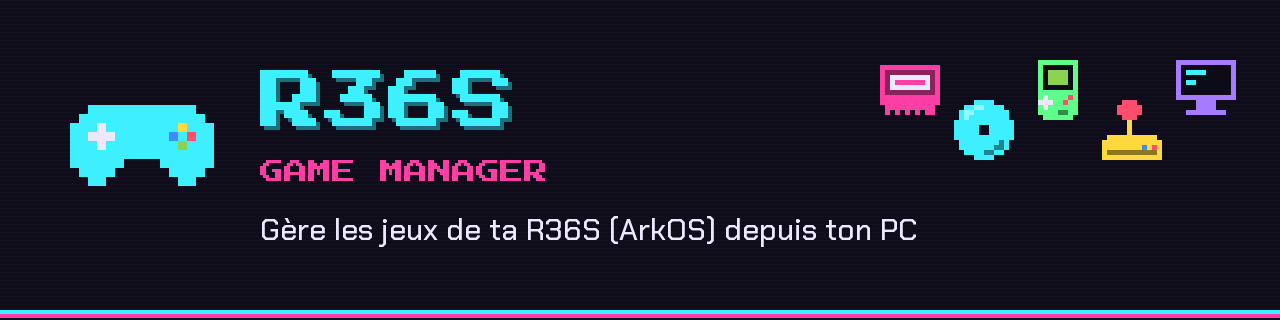
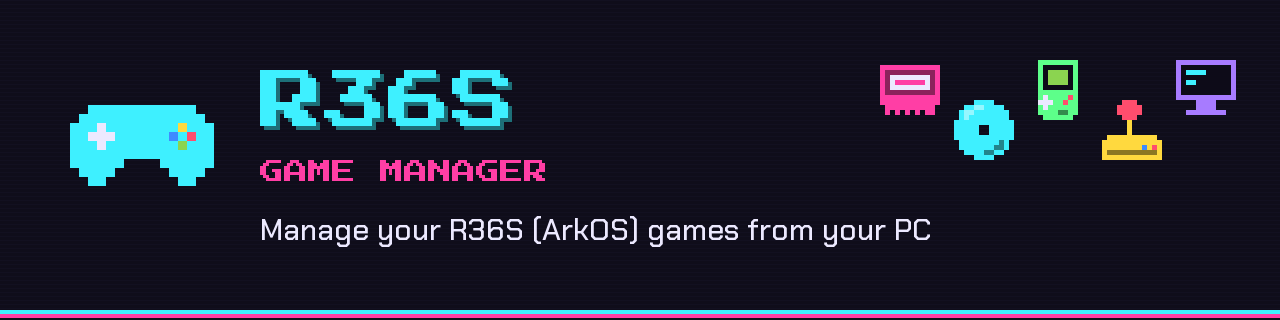
README et bannière en anglais

Changed region(s): [[0.1875, 0.6562, 0.7188, 0.7812]]

diff --git a/README.md b/README.md
@@ -6,89 +6,91 @@
   <img src="https://img.shields.io/badge/Windows-0078D6?style=for-the-badge&logo=windows&logoColor=white" alt="Windows">
   <img src="https://img.shields.io/badge/Linux-FCC624?style=for-the-badge&logo=linux&logoColor=black" alt="Linux">
   <img src="https://img.shields.io/badge/Python-3.12+-3776AB?style=for-the-badge&logo=python&logoColor=white" alt="Python">
-  <img src="https://img.shields.io/badge/licence-MIT-ff3ea5?style=for-the-badge" alt="Licence MIT">
+  <img src="https://img.shields.io/badge/license-MIT-ff3ea5?style=for-the-badge" alt="MIT license">
 </p>
 
 <p align="center">
-  <b>Range, nettoie et embellis la carte SD de ta console R36S (ArkOS) depuis ton PC.</b><br>
-  Jaquettes, vidéos, favoris, notes, nettoyage, compression… sans jamais toucher la ligne de commande.
+  <b>Organize, clean up and pimp the SD card of your R36S handheld (ArkOS) from your PC.</b><br>
+  Box art, videos, favorites, ratings, cleanup, compression… no command line needed.
 </p>
 
 <p align="center">
-  <img src="docs/demo.gif" alt="Démonstration" width="90%">
+  <img src="docs/demo.gif" alt="Demo" width="90%">
 </p>
 
 ---
 
-## ✨ Ce qu'il sait faire
+## ✨ Features
 
 | | |
 |---|---|
-| 🎮 **Bibliothèque** | Tous tes jeux en grille de jaquettes ou en liste, avec le **logo de chaque console**, la recherche et les **filtres** (genre, joueurs, région, jamais joué…) |
-| 📺 **Fiche du jeu** | Capture, **vidéo** qui démarre toute seule, note ★, région avec drapeaux 🇫🇷🇺🇸🇯🇵, nombre de parties et date de la dernière |
-| ⭐ **Favoris & fiches** | Les mêmes favoris que sur la console, modification de la fiche (nom, note, description, **images**) |
-| ➕ **Ajout de jeux** | Glisse tes ROMs dans la fenêtre : la console est devinée, puis **image, description, année et genre sont cherchés sur internet** |
-| 🧹 **Nettoyage** | Médias orphelins, fiches sans jeu, jeux dans le mauvais dossier, doublons, vidéos encombrantes |
-| 💿 **Multi-disques & CHD** | Regroupe les jeux en plusieurs CD en une seule entrée `.m3u` et **compresse** les jeux CD en `.chd` (30 à 60 % de place gagnée) |
-| 💾 **Sécurité** | Sauvegarde de tes parties sur le PC, vérification des BIOS, et **chaque opération s'annule** (corbeille) |
+| 🎮 **Library** | All your games as a box-art grid or a list, with **each console's logo**, search and **filters** (genre, players, region, never played…) |
+| 📺 **Game details** | Screenshot, **video preview** that starts by itself, ★ rating, region flags 🇺🇸🇪🇺🇯🇵, play count and last played date |
+| ⭐ **Favorites & metadata** | The same favorites as on the console, edit any game card (name, rating, description, **images**) |
+| ➕ **Add games** | Drag & drop your ROMs: the console is detected, then **image, description, year and genre are fetched from the internet** |
+| 🧹 **Cleanup** | Orphan media, entries without a game, games in the wrong folder, duplicates, bulky videos |
+| 💿 **Multi-disc & CHD** | Merge multi-CD games into a single `.m3u` entry and **compress** CD games to `.chd` (30–60 % space saved) |
+| 💾 **Safety** | Back up your saves to your PC, check BIOS files, and **every operation can be undone** (trash) |
 
 <p align="center">
-  <img src="docs/screen-video.jpg" width="49%" alt="Fiche d'un jeu avec sa vidéo">
-  <img src="docs/screen-filters.jpg" width="49%" alt="Filtres">
+  <img src="docs/screen-video.jpg" width="49%" alt="Game details with its video">
+  <img src="docs/screen-filters.jpg" width="49%" alt="Filters">
 </p>
 
-## 📥 Télécharger
+> 🇫🇷 The interface is in French for now.
 
-Va dans **[Releases](../../releases/latest)** et prends le fichier de ton système. Rien à installer :
+## 📥 Download
 
-| Système | Fichier |
+Grab the file for your system from **[Releases](../../releases/latest)**. Nothing to install:
+
+| System | File |
 |---|---|
-| 🪟 Windows 10/11 | `R36S-Game-Manager-windows-x64.exe` (double-clic) |
-| 🐧 Linux x64 | `R36S-Game-Manager-linux-x64.tar.gz` → décompresse puis `./R36S-Game-Manager` |
+| 🪟 Windows 10/11 | `R36S-Game-Manager-windows-x64.exe` (double-click) |
+| 🐧 Linux x64 | `R36S-Game-Manager-linux-x64.tar.gz` → extract, then `./R36S-Game-Manager` |
 
-> **Optionnel :** [VLC](https://www.videolan.org) pour les vidéos des jeux, [7-Zip](https://www.7-zip.org) (Windows) ou `mame-tools` (Linux) pour la compression CHD.
+> **Optional:** [VLC](https://www.videolan.org) for game videos, [7-Zip](https://www.7-zip.org) (Windows) or `mame-tools` (Linux) for CHD compression.
 
-## 🚀 Utilisation
+## 🚀 Usage
 
-1. **Éteins la console**, retire la carte SD et mets-la dans ton PC.
-2. Lance le programme : la partition **EASYROMS** est trouvée automatiquement.
-3. Gère tes jeux, puis remets la carte dans la console. C'est tout !
+1. **Turn the console off**, take out the SD card and plug it into your PC.
+2. Start the program: the **EASYROMS** partition is found automatically.
+3. Manage your games, then put the card back in the console. That's it!
 
-**Raccourcis :** `Ctrl+F` rechercher · `F` favori · `F2` modifier la fiche · `Suppr` supprimer · `F5` relire la carte · clic droit pour le menu du jeu.
+**Shortcuts:** `Ctrl+F` search · `F` favorite · `F2` edit game card · `Del` delete · `F5` reload the card · right-click for the game menu.
 
-> 🛟 **Pas de panique :** rien n'est effacé tout de suite. Les fichiers supprimés vont dans une corbeille cachée sur la carte, et le bouton ↶ annule la dernière opération. *Vider la corbeille* libère réellement la place.
+> 🛟 **Don't panic:** nothing is erased right away. Deleted files go to a hidden trash on the card, and the ↶ button undoes the last operation. *Empty the trash* to actually free the space.
 
-## 🛠 Depuis le code source
+## 🛠 From source
 
 ```bash
 pip install -r requirements.txt
-python app.py               # ou : lancer.bat (Windows) · sh lancer.sh (Linux)
-python -m pytest -q         # tests sur une fausse carte (la tienne n'est jamais touchée)
-python build.py             # fabrique l'exécutable dans dist/
+python app.py               # or: lancer.bat (Windows) · sh lancer.sh (Linux)
+python -m pytest -q         # tests on a fake card (yours is never touched)
+python build.py             # builds the executable into dist/
 ```
 
-Pour publier une version : `git tag v1.0.0 && git push --tags`. GitHub Actions teste le code et fabrique les exécutables Windows et Linux dans *Releases*.
+To publish a release: `git tag v1.0.0 && git push --tags`. GitHub Actions runs the tests and builds the Windows and Linux executables into *Releases*.
 
 <details>
-<summary>🗂 Organisation du code</summary>
+<summary>🗂 Code layout</summary>
 
-| Fichier | Rôle |
+| File | Role |
 |---|---|
-| `app.py`, `tools_actions.py` | Fenêtre principale et actions des menus |
-| `widgets.py`, `dialogs.py` | Boutons, grille de jaquettes, fenêtres |
-| `core.py` | Lecture de la carte et des `gamelist.xml`, suppression, déplacement |
-| `journal.py` | Corbeille et annulation de toutes les opérations |
-| `cleanup.py`, `multidisc.py`, `chd.py`, `saves.py`, `bios.py` | Outils |
-| `scraper.py`, `metadata.py`, `net.py` | Images, fiches et accès internet |
-| `theme.py`, `icons.py`, `logos.py`, `systems.py`, `regions.py` | Thème rétro, icônes pixel, logos, consoles, drapeaux |
+| `app.py`, `tools_actions.py` | Main window and menu actions |
+| `widgets.py`, `dialogs.py` | Buttons, box-art grid, dialogs |
+| `core.py` | Reading the card and `gamelist.xml` files, deleting, moving |
+| `journal.py` | Trash and undo for every operation |
+| `cleanup.py`, `multidisc.py`, `chd.py`, `saves.py`, `bios.py` | Tools |
+| `scraper.py`, `metadata.py`, `net.py` | Images, game info and internet access |
+| `theme.py`, `icons.py`, `logos.py`, `systems.py`, `regions.py` | Retro theme, pixel icons, logos, consoles, flags |
 
 </details>
 
-## 🙏 Crédits
+## 🙏 Credits
 
-Images : [libretro-thumbnails](https://github.com/libretro-thumbnails/libretro-thumbnails) · Fiches : [libretro-database](https://github.com/libretro/libretro-database), [Wikidata](https://www.wikidata.org) et [Wikipédia](https://fr.wikipedia.org) · Compression : `chdman` de [MAME](https://www.mamedev.org) · Vidéos : [VLC](https://www.videolan.org) · Polices : *Press Start 2P* et *Chakra Petch* (licence OFL).
+Images: [libretro-thumbnails](https://github.com/libretro-thumbnails/libretro-thumbnails) · Game info: [libretro-database](https://github.com/libretro/libretro-database), [Wikidata](https://www.wikidata.org) and [Wikipedia](https://www.wikipedia.org) · Compression: `chdman` from [MAME](https://www.mamedev.org) · Videos: [VLC](https://www.videolan.org) · Fonts: *Press Start 2P* and *Chakra Petch* (OFL license).
 
-> ⚠ Aucune ROM ni aucun BIOS n'est fourni. Les logos des consoles sont lus dans les thèmes déjà présents sur ta carte.
-> Projet indépendant, sans lien avec les fabricants de la R36S ni avec ArkOS.
+> ⚠ No ROMs or BIOS files are included. Console logos are read from the themes already on your card.
+> Independent project, not affiliated with the R36S manufacturers or ArkOS.
 
-Sous licence [MIT](LICENSE).
+Released under the [MIT](LICENSE) license.
